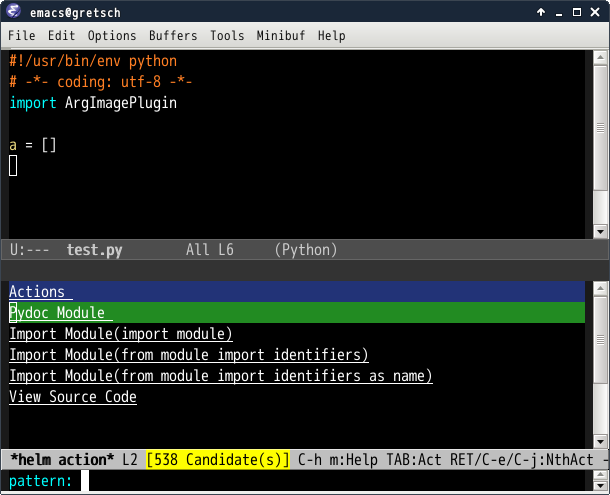
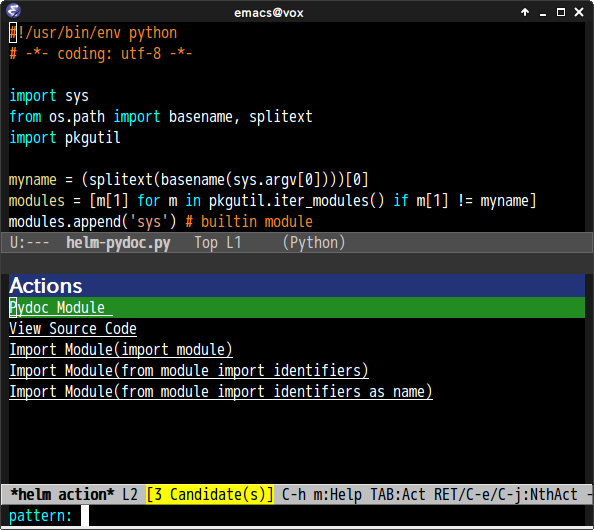
update screenshots

diff --git a/README.md b/README.md
@@ -6,9 +6,9 @@
 
 ## Screenshot
 
-![helm-pydoc](https://github.com/syohex/emacs-helm-pydoc/raw/master/image/helm-pydoc.png)
+![helm-pydoc](image/helm-pydoc1.png)
 
-![helm-pydoc-action](https://github.com/syohex/emacs-helm-pydoc/raw/master/image/helm-pydoc-action.png)
+![helm-pydoc-action](image/helm-pydoc2.png)
 
 
 ## Requirements
